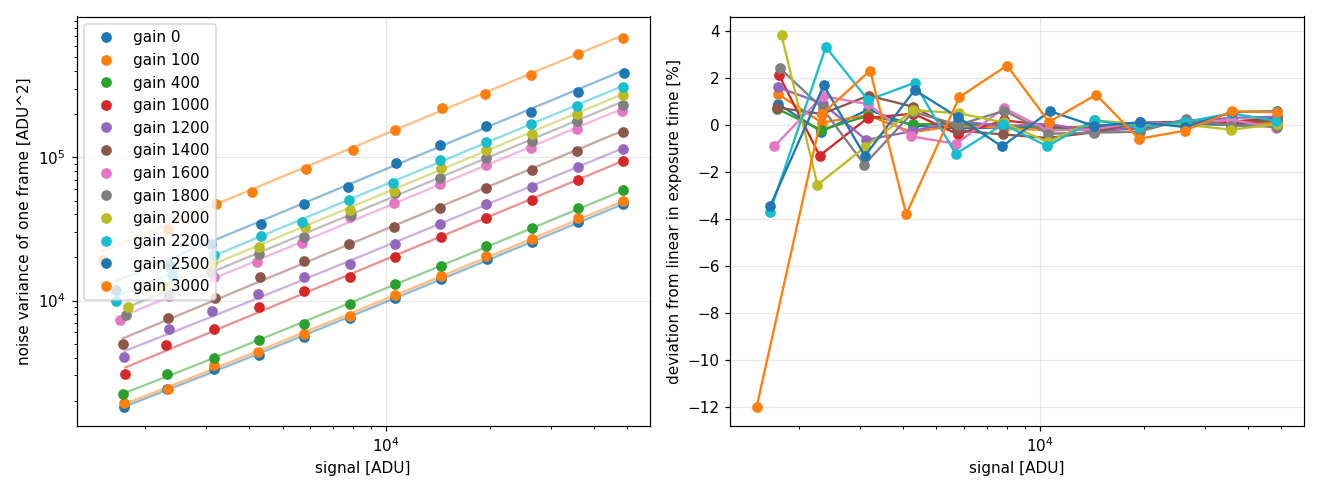
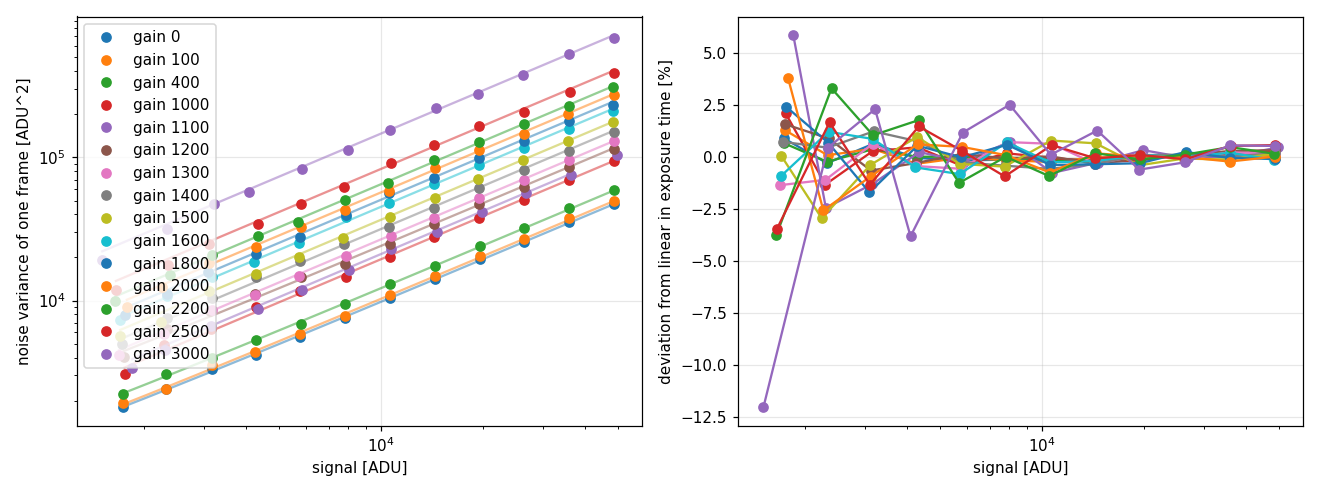
Measure conversion gain at gains 1000 to 1500 with repeated flats

diff --git a/characterization/QHY294PROM/cfb85516525f0aced/README.md b/characterization/QHY294PROM/cfb85516525f0aced/README.md
@@ -118,8 +118,8 @@ Data: [bias.jsonl](bias.jsonl) and [bias.jsonl of mode 1](../cfb85516525f0aced_m
 | 1600 | 7.60 | 8981.3 | 15.82 |
 
 - **Mode 0 switches between gain 1500 and 1600** (measured): the noise falls from 21.2 to 7.6 ADU and the bias level falls
-  by 75 ADU. In e- (times the conversion gain, interpolated at 1500) the noise is 6.3 e- at gain 1000, 5.8 e- at 1400,
-  about 5.7 e- at 1500 and 1.7 e- at 1600. So gain 1600 is the lowest setting with the low-noise conversion gain
+  by 75 ADU. In e- (times the conversion gain from the flats) the noise is 6.3 e- at gain 1000, 5.9 e- at 1400, 5.8 e- at 1500
+  and 1.7 e- at 1600. So gain 1600 is the lowest setting with the low-noise conversion gain
   (inferred from the e- values, the switch itself is only seen in the noise).
 - **Mode 1 shows no switch in 800 to 1600** (noise rises smoothly from 12.8 to 15.8 ADU). Its drop lies between gain 100
   and 200 (26.2 to 11.4 ADU, see the mode 1 table above). A scan in steps of 10 puts it **between gain 190 and 200**
@@ -399,9 +399,12 @@ Read mode 0:
 | 0 | 1.032 | 0.9% | 0.15% | 7.4 | 58 |
 | 100 | 0.982 | 1.2% | 0.31% | 7.3 | 56 |
 | 400 | 0.829 | 0.9% | 0.24% | 7.0 | 47 |
-| 1000 | 0.513 | 2.3% | 0.48% | not measured | 29 |
-| 1200 | 0.419 | 2.4% | 0.35% | not measured | 24 |
-| 1400 | 0.316 | 1.8% | 0.77% | not measured | 18 |
+| 1000 | 0.518 | 1.0% | 0.48% | 6.3 | 29 |
+| 1100 | 0.471 | 0.8% | not checked | 6.3 | 27 |
+| 1200 | 0.419 | 1.2% | 0.35% | 6.1 | 24 |
+| 1300 | 0.372 | 0.9% | not checked | 6.0 | 21 |
+| 1400 | 0.322 | 0.8% | 0.77% | 5.9 | 18 |
+| 1500 | 0.273 | 0.9% | not checked | 5.8 | 16 |
 | 1600 | 0.221 | 1.4% | 0.81% | 1.7 | 13 |
 | 1800 | 0.197 | 1.4% | 0.60% | not measured | 11 |
 | 2000 | 0.175 | 1.4% | 0.73% | not measured | 9.9 |
@@ -418,6 +421,9 @@ Read mode 1 (same method, 8336 x 5648 pixels, 2048 x 2048 window):
 | 400 | 0.210 | 0.7% | 0.26% | 2.5 | 12 |
 | 1000 | 0.172 | 0.4% | 0.19% | not measured | 9.7 |
 
+- **Gains 1000 to 1500** are two or three runs each (the first of 1000, 1200 and 1400 plus the repeats in
+  [flat_repeat.jsonl](flat_repeat.jsonl), 25 Nov); the runs agree within 2% and the table shows the fit over all runs
+  (error 0.8 to 1.2%). The nonlinearity column is from the first run only.
 - Read noise in e- is the bias noise in ADU at offset 140 (table in [Bias and read noise](#bias-and-read-noise-measured))
   times the conversion gain. The intercept of the photon transfer fit is not used (it is 0 to 17 ADU and jumps between
   gains, so it is not a read noise).
@@ -583,8 +589,7 @@ is why the PWM trace is a sawtooth during the ramps.
 
 ## Not measured yet
 
-- **The photon transfer gain between 1000 and 1500** with more frames (the e-/ADU there is interpolated at 1500). The
-  switch gains are now known to 10 (mode 1: 200, mode 0: 1600), not to 1.
+- **The switch gain to 1** (known to 10: mode 1 at 200, mode 0 at 1600).
 - **Sensor temperature during long darks:** log it from a second process or between frames (the readings after the 900 s
   darks are wrong).
 - **Read mode 1:** 900 s darks.
